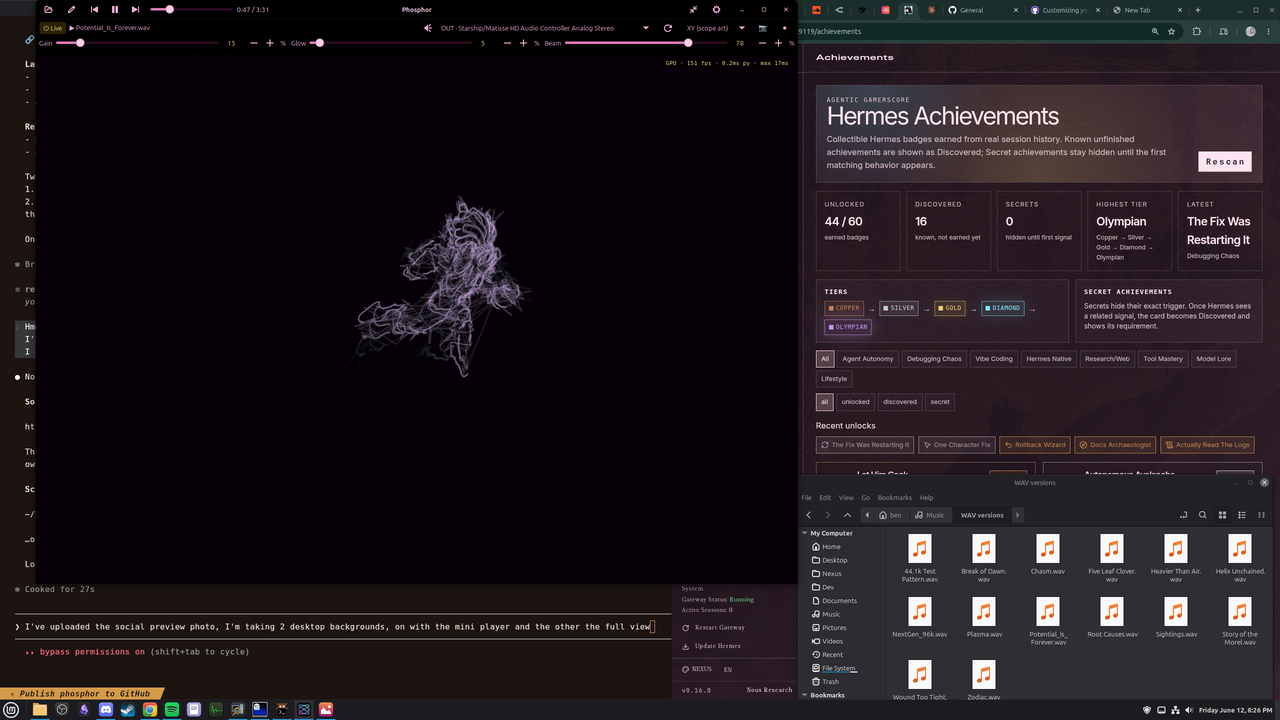
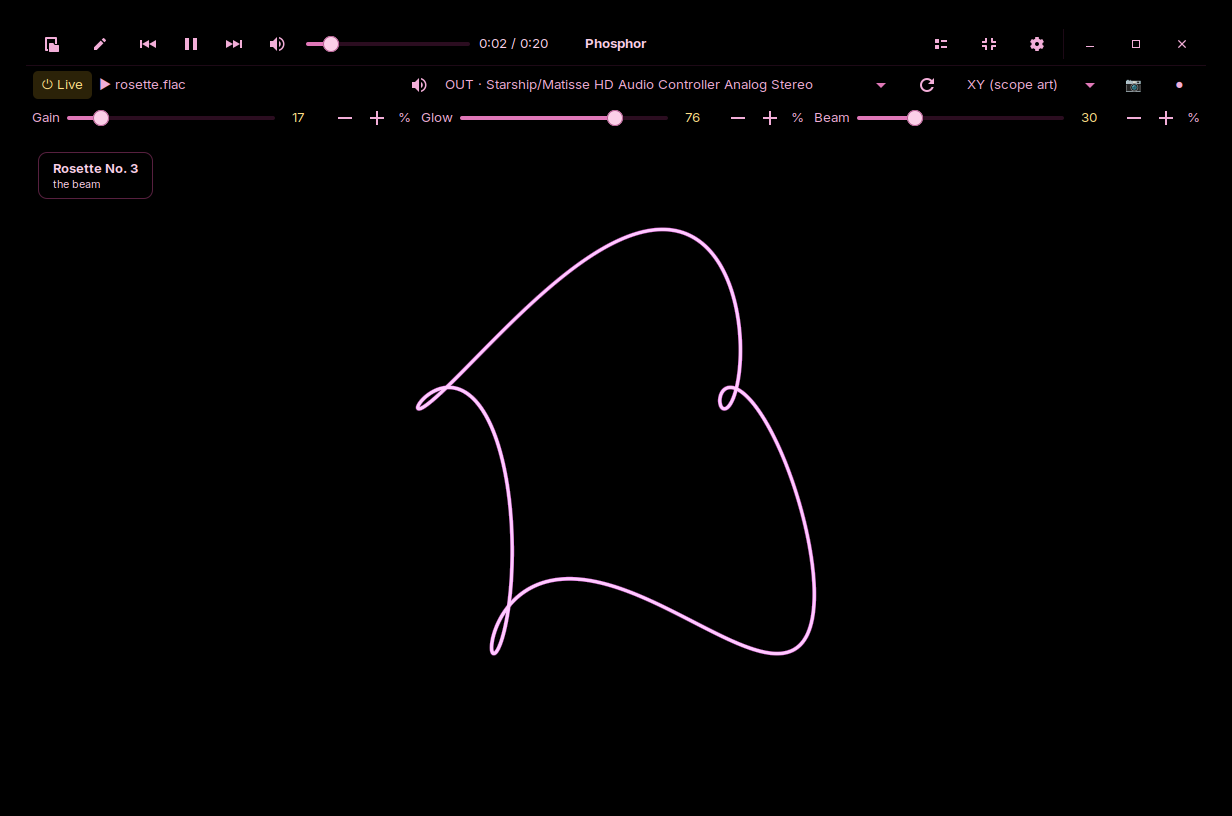
Ship polish: tooltip contrast, true Aero translucency, Stonework·bloom, mini track picker, real 3.1 README shots
- Tooltip labels get explicit colors in every theme (the global label
  color made hover text unreadable on Ice Blue and Aero).
- Aero glass is now genuinely translucent: RGBA visual on the window +
  transparent CSD decoration node + non-opaque background-color — GTK3
  was flattening alpha against an opaque frame. Proven by pixel: chrome
  tint follows whatever is behind the window (red vs green backdrop).
  Muffin composites it; no compiz, no measurable game cost.
- New style Stonework · bloom: the chiseled masonry with lit runes —
  ember glow seeps from whatever you touch. Both block themes get
  smaller buttons (padding/height trimmed, bevels and spacing kept).
- Tracks submenu in the right-click menu (windowed around the current
  track for big folders) — the mini view can change songs by mouse.
- README visuals reshot from the real 3.1 app: new hero, a six-style
  grid, a three-mode strip; stale v2 shots removed; seven-styles bullet.

diff --git a/phosphor_ui_style.py b/phosphor_ui_style.py
@@ -23,8 +23,9 @@ from gi.repository import Gtk, Gdk  # noqa: E402
 UI_STYLE_CHOICES = (("system", "System"), ("dark", "Dark"),
                     ("light", "Ice Blue ❄"), ("black", "AMOLED pink"),
                     ("bloom", "Bloom · neon"), ("stone", "Stonework 95"),
+                    ("stonebloom", "Stonework · bloom"),
                     ("aero", "Aero glass"))
-DARK_STYLES = ("dark", "black", "bloom", "stone")
+DARK_STYLES = ("dark", "black", "bloom", "stone", "stonebloom")
 
 # Always loaded: the overlay chips that float on the scope.
 BASE_UI_CSS = b"""
@@ -152,6 +153,7 @@ tooltip, tooltip.background {
     color: #fbcfe8;
     border: 1px solid #57203f;
 }
+tooltip label { color: #fbcfe8; }
 /* file chooser, kept on-theme: pink on black */
 dialog headerbar { background-color: #000000; }
 filechooser, filechooser box, filechooser paned { background-color: #000000; }
@@ -295,6 +297,7 @@ tooltip, tooltip.background {
     color: #fbcfe8;
     border: 1px solid #b65c92;
 }
+tooltip label { color: #fbcfe8; }
 dialog headerbar { background-color: #000000; }
 filechooser, filechooser box, filechooser paned { background-color: #000000; }
 placessidebar, placessidebar list { background-color: #0d040a; }
@@ -343,12 +346,12 @@ button, combobox button.combo, spinbutton button, button.color {
     border: 2px solid;
     border-color: #8a8375 #2e2a25 #2e2a25 #8a8375;
     border-radius: 0;
-    padding: 1px 9px;
-    min-height: 24px;
+    padding: 0 6px;
+    min-height: 20px;
     box-shadow: none;
     transition: none;
 }
-spinbutton button { padding: 1px 6px; }
+spinbutton button { padding: 0 4px; }
 button:hover { background-image: linear-gradient(#756e63, #605a51); }
 button:active, button:checked {
     background-image: linear-gradient(#3e3a34, #4a453e);
@@ -431,6 +434,7 @@ tooltip, tooltip.background {
     color: #f4ead0;
     border: 1px solid #8a8375;
 }
+tooltip label { color: #f4ead0; }
 dialog headerbar { background-image: linear-gradient(#5a544b, #4a453e); }
 filechooser, filechooser box, filechooser paned { background-color: #4a453e; }
 placessidebar, placessidebar list { background-color: #3e3a34; }
@@ -458,25 +462,192 @@ actionbar { background-color: #4a453e; }
 #playlist-panel row:hover { background-color: #57524a; }
 """
 
+
+# Stonework · bloom: the same chiseled masonry, but the runes are lit —
+# ember light seeps out of whatever you touch, gold means molten.
+STONEBLOOM_UI_CSS = b"""
+window, headerbar, dialog, popover, popover.background, menu, .background {
+    background-color: #38342e;
+    color: #ecdfc2;
+}
+label, popover label, menu label, cellview { color: #ecdfc2; }
+headerbar {
+    background-image: linear-gradient(#4a453e, #38342e);
+    min-height: 34px;
+    padding: 0 4px;
+    border-bottom: 2px solid #211d18;
+    box-shadow: 0 1px 10px rgba(255, 190, 80, 0.14);
+}
+headerbar .title, headerbar label { color: #f4ead0; font-weight: bold; }
+button, combobox button.combo, spinbutton button, button.color {
+    background-image: linear-gradient(#57524a, #45403a);
+    color: #ecdfc2;
+    border: 2px solid;
+    border-color: #7d766a #211d18 #211d18 #7d766a;
+    border-radius: 0;
+    padding: 0 6px;
+    min-height: 20px;
+    box-shadow: 0 0 5px rgba(255, 190, 80, 0.10);
+    transition: box-shadow 140ms ease;
+}
+spinbutton button { padding: 0 4px; }
+button:hover {
+    background-image: linear-gradient(#615a50, #4e4841);
+    color: #ffd76e;
+    box-shadow: 0 0 11px rgba(255, 190, 80, 0.5);
+}
+button:active, button:checked {
+    background-image: linear-gradient(#3a2d10, #4a3a14);
+    border-color: #211d18 #7d766a #7d766a #211d18;
+}
+button:checked {
+    color: #ffcf5e;
+    box-shadow: 0 0 12px rgba(255, 200, 90, 0.55);
+}
+button:checked label, button:checked image { color: #ffcf5e; }
+combobox arrow { color: #d8b96a; }
+entry, spinbutton, spinbutton entry {
+    background-image: none;
+    background-color: #262218;
+    color: #ffcf5e;
+    border: 2px solid;
+    border-color: #211d18 #7d766a #7d766a #211d18;
+    border-radius: 0;
+    min-height: 22px;
+    box-shadow: none;
+}
+entry:focus, spinbutton entry:focus {
+    background-color: #2e2a24;
+    box-shadow: 0 0 9px rgba(255, 190, 80, 0.4);
+}
+scale trough {
+    background-color: #262218;
+    border: 2px solid;
+    border-color: #211d18 #7d766a #7d766a #211d18;
+    border-radius: 0;
+    min-height: 8px;
+}
+scale highlight {
+    background-image: linear-gradient(#ffcf5e, #c98f2e);
+    border-radius: 0;
+    box-shadow: 0 0 7px rgba(255, 200, 90, 0.6);
+}
+scale slider {
+    background-image: linear-gradient(#615a50, #4e4841);
+    border: 2px solid;
+    border-color: #7d766a #211d18 #211d18 #7d766a;
+    border-radius: 0;
+    min-width: 12px;
+    min-height: 20px;
+}
+scale slider:hover { box-shadow: 0 0 9px rgba(255, 190, 80, 0.55); }
+switch {
+    background-image: none;
+    background-color: #262218;
+    border: 2px solid;
+    border-color: #211d18 #7d766a #7d766a #211d18;
+    border-radius: 0;
+}
+switch:checked {
+    background-color: #6e5312;
+    box-shadow: 0 0 9px rgba(255, 200, 90, 0.5);
+}
+switch slider {
+    background-image: linear-gradient(#615a50, #4e4841);
+    border: 2px solid;
+    border-color: #7d766a #211d18 #211d18 #7d766a;
+    border-radius: 0;
+    min-width: 16px;
+    min-height: 16px;
+    margin: 1px;
+}
+menu menuitem:hover, popover modelbutton:hover { background-color: #6e5312; }
+menu menuitem:hover label { color: #ffe9b0; }
+menu, popover {
+    border: 2px solid;
+    border-color: #7d766a #211d18 #211d18 #7d766a;
+    border-radius: 0;
+    box-shadow: 0 0 16px rgba(255, 190, 80, 0.22);
+}
+menu check, menu radio { color: #d8b96a; }
+menu check:checked, menu radio:checked { color: #ffcf5e; }
+separator { background-color: #211d18; min-width: 2px; min-height: 2px; }
+scrollbar, scrollbar trough { background-color: #2e2a24; }
+scrollbar slider {
+    background-image: linear-gradient(#615a50, #4e4841);
+    border: 2px solid;
+    border-color: #7d766a #211d18 #211d18 #7d766a;
+    border-radius: 0;
+    min-width: 12px;
+    min-height: 24px;
+}
+scrollbar slider:hover { box-shadow: 0 0 8px rgba(255, 190, 80, 0.5); }
+.settings-section {
+    color: #d8b96a;
+    font-size: 10px;
+    font-weight: bold;
+    letter-spacing: 3px;
+}
+tooltip, tooltip.background {
+    background-color: #262218;
+    color: #ffe9b0;
+    border: 1px solid #c98f2e;
+}
+tooltip label { color: #ffe9b0; }
+dialog headerbar { background-image: linear-gradient(#4a453e, #38342e); }
+filechooser, filechooser box, filechooser paned { background-color: #38342e; }
+placessidebar, placessidebar list { background-color: #2e2a24; }
+placessidebar row label { color: #ecdfc2; }
+placessidebar row:selected { background-color: #6e5312; }
+placessidebar row:selected label { color: #ffcf5e; }
+treeview.view { background-color: #262218; color: #ecdfc2; }
+treeview.view:selected { background-color: #6e5312; color: #ffcf5e; }
+treeview.view header button { background-color: #45403a; color: #ecdfc2; }
+actionbar { background-color: #38342e; }
+*:selected { background-color: #6e5312; color: #ffcf5e; }
+#fps-overlay { color: #ffcf5e; }
+#now-playing {
+    background-color: rgba(38, 34, 29, 0.88);
+    color: #f4ead0;
+    border: 2px solid;
+    border-color: #7d766a #211d18 #211d18 #7d766a;
+    border-radius: 0;
+    box-shadow: 0 0 12px rgba(255, 190, 80, 0.3);
+}
+#playlist-panel { background-color: #2e2a24; border-left: 2px solid #211d18; }
+#playlist-panel list, #playlist-panel row { background-color: transparent; }
+#playlist-panel row { border-radius: 0; }
+#playlist-panel row:selected { background-color: #6e5312; }
+#playlist-panel row:selected label { color: #ffcf5e; }
+#playlist-panel row:hover { background-color: #4e4841; }
+"""
+
 # Aero glass: translucent Frutiger-era gradients, white sheen on every
 # control, deep-sky selection — the 2000s visualizer energy, in chrome.
 AERO_UI_CSS = b"""
+/* a transparent decoration node + non-opaque background-color are what
+   let GTK3 hand the compositor real alpha - without them the frame
+   flattens everything against an opaque base */
+decoration { background-color: transparent; background-image: none; }
 window, dialog, .background {
-    background-image: linear-gradient(#dff2fb, #b8dff0 40%, #a5d4ea);
+    background-color: rgba(196, 228, 243, 0.60);
+    background-image: linear-gradient(rgba(223, 242, 251, 0.72),
+                                      rgba(184, 223, 240, 0.62) 40%,
+                                      rgba(165, 212, 234, 0.58));
     color: #123a52;
 }
 popover, popover.background, menu {
-    background-color: rgba(235, 248, 253, 0.97);
+    background-color: rgba(235, 248, 253, 0.94);
     color: #123a52;
 }
 label, popover label, menu label, cellview { color: #123a52; }
 headerbar {
-    background-image: linear-gradient(rgba(255,255,255,0.9),
-                                      rgba(190, 226, 243, 0.9));
+    background-image: linear-gradient(rgba(255,255,255,0.72),
+                                      rgba(190, 226, 243, 0.66));
     min-height: 34px;
     padding: 0 4px;
-    border-bottom: 1px solid #7db8d6;
-    box-shadow: inset 0 1px 0 rgba(255,255,255,0.9);
+    border-bottom: 1px solid rgba(125, 184, 214, 0.8);
+    box-shadow: inset 0 1px 0 rgba(255,255,255,0.85);
 }
 headerbar .title, headerbar label { color: #0d3752; }
 button, combobox button.combo, spinbutton button, button.color {
@@ -579,6 +750,7 @@ tooltip, tooltip.background {
     color: #e8f6fd;
     border: 1px solid #5aa5cc;
 }
+tooltip label { color: #e8f6fd; }
 dialog headerbar {
     background-image: linear-gradient(rgba(255,255,255,0.9),
                                       rgba(190, 226, 243, 0.9));
@@ -608,7 +780,10 @@ actionbar { background-color: #cfe9f5; }
     color: #0d3752;
     border: 1px solid #7db8d6;
 }
-#playlist-panel { background-color: #cfe9f5; border-left: 1px solid #9fcde2; }
+#playlist-panel {
+    background-color: rgba(207, 233, 245, 0.72);
+    border-left: 1px solid rgba(159, 205, 226, 0.8);
+}
 #playlist-panel list, #playlist-panel row { background-color: transparent; }
 #playlist-panel row { border-radius: 7px; }
 #playlist-panel row:selected {
@@ -719,6 +894,7 @@ tooltip, tooltip.background {
     background-color: #1c3a50;
     color: #eaf6fd;
 }
+tooltip label { color: #eaf6fd; }
 /* file chooser: force everything frost-light AND force symbolic icons;
    full-color icon themes made for dark desktops used to vanish here */
 dialog headerbar { background-color: #e1eef6; }
@@ -752,8 +928,8 @@ actionbar { background-color: #e1eef6; }
 """
 
 _STYLE_CSS = {"black": BLACK_UI_CSS, "bloom": BLOOM_UI_CSS,
-              "stone": STONE_UI_CSS, "aero": AERO_UI_CSS,
-              "light": ICE_UI_CSS}
+              "stone": STONE_UI_CSS, "stonebloom": STONEBLOOM_UI_CSS,
+              "aero": AERO_UI_CSS, "light": ICE_UI_CSS}
 
 
 def install_base_style():

diff --git a/phosphor.py b/phosphor.py
@@ -174,6 +174,12 @@ class OscilloscopeWindow(Gtk.ApplicationWindow):
         self.settings = Settings.load()
         self.set_default_size(self.settings.window_width, self.settings.window_height)
 
+        # an alpha channel when the compositor offers one: opaque themes
+        # look identical, and Aero glass gets genuinely see-through chrome
+        rgba_visual = self.get_screen().get_rgba_visual()
+        if rgba_visual is not None:
+            self.set_visual(rgba_visual)
+
         icon_path = os.path.join(PROJECT_DIRECTORY, "phosphor-scope.svg")
         if os.path.exists(icon_path):
             try:
@@ -1802,6 +1808,23 @@ class OscilloscopeWindow(Gtk.ApplicationWindow):
                      sensitive=len(self.player.playlist) > 1)
             add_item("Previous track  ⏮", self.player.play_previous_track,
                      sensitive=len(self.player.playlist) > 1)
+            if len(self.player.playlist) > 1:
+                # track picker in the menu, so the mini view can change
+                # songs by mouse alone
+                tracks_menu = add_submenu("Tracks")
+                playlist = self.player.playlist
+                current = self.player.playlist_index
+                start = 0
+                if len(playlist) > 30:      # window big folders around now
+                    start = max(0, min(current - 12, len(playlist) - 25))
+                    playlist = playlist[start:start + 25]
+                for offset, path in enumerate(playlist):
+                    add_check_item(
+                        os.path.basename(path),
+                        start + offset == current,
+                        lambda active, p=path: active and self.player
+                            .play_file(p, rebuild_playlist=False),
+                        radio=True, target_menu=tracks_menu)
         if not self.is_mini_mode:
             add_check_item("Compose · draw a shape  (D)", self.is_composing,
                            lambda active: self.compose_toggle.set_active(active))

diff --git a/README.md b/README.md
@@ -35,17 +35,26 @@ saved with the snapshot button:
 ## In use
 
 <p align="center">
-  <img src="docs/inuse-full.png" width="820" alt="Phosphor's full window running on a Linux Mint desktop"><br>
-  <sub>The full window: headerbar transport, source picker, slider rail.</sub>
-</p>
-
-<p align="center">
-  <img src="docs/inuse-mini.png" width="820" alt="Phosphor mini player on the desktop, with saved snapshots open in the file manager"><br>
-  <sub>The mini player — a borderless always-on-top square you tuck into a corner — beside saved snapshots.</sub>
+  <img src="docs/inuse-full.png" width="860" alt="Phosphor 3.1 playing a track: AMOLED pink chrome, Vaporwave beam, headerbar transport and seek"><br>
+  <sub>v3.1 on a Cinnamon desktop — AMOLED pink chrome, the built-in player mid-track, track info fading in.</sub>
 </p>
 
 <p align="center"><sub><em>“Made with Claude Fable 5 — finished the last prompt before the feds took it down. Amazing model…”</em> — Ben<br>
 Shipped to GitHub by Claude&nbsp;Opus&nbsp;4.8, the day Fable&nbsp;5 went dark (12 June 2026).</sub></p>
+
+## Seven looks
+
+<p align="center">
+  <img src="docs/styles.png" width="860" alt="Six of Phosphor's chrome styles: AMOLED pink, Bloom neon, Stonework 95, Stonework bloom, Aero glass, Ice Blue"><br>
+  <sub>Same scope, different metal: AMOLED pink · Bloom neon · Stonework 95 · Stonework bloom · Aero glass (genuinely translucent under a compositor) · Ice Blue ❄ — plus your system theme.</sub>
+</p>
+
+## Nine ways to see sound
+
+<p align="center">
+  <img src="docs/modes.png" width="860" alt="Three of the nine display modes: XY swirl, ring oscillogram, spectrum tunnel"><br>
+  <sub>Three of the nine: XY · swirl, Ring · oscillogram, Spectrum · tunnel. The others: XY scope art, goniometer, XY dots, waveform, spectrum, radial.</sub>
+</p>
 
 ## What it does
 
@@ -59,8 +68,9 @@ Shipped to GitHub by Claude&nbsp;Opus&nbsp;4.8, the day Fable&nbsp;5 went dark (
 - **Nine displays** — XY scope art, goniometer, a slowly revolving
   swirl, XY dots, triggered waveform, ring oscillogram, spectrum, radial
   spectrum, and a breathing spectrum tunnel.
-- **Six chrome styles** — AMOLED pink, Bloom neon, Stonework 95, Aero
-  glass, Ice Blue ❄, or your system theme.
+- **Seven chrome styles** — AMOLED pink, Bloom neon, Stonework 95,
+  Stonework · bloom, truly-translucent Aero glass, Ice Blue ❄, or your
+  system theme.
 - **A real beam** — analytic Gaussian beam integral on the GPU, linear-light
   compositing, two-layer phosphor decay, octave-stepped graticule.
 - **A Rust core** — the samples→segments math runs native, and in-process

diff --git a/docs/MANUAL.md b/docs/MANUAL.md
@@ -99,7 +99,8 @@ The gear popover is organized into sections:
 - **Appearance** — themes (P7 Green, Amber, Ice Blue, White, Vaporwave,
   Red Phosphor, Ultraviolet, Solar Gold, Cyan Tube, Custom with two color
   pickers), UI style (System / Dark / Ice Blue ❄ / AMOLED pink / Bloom neon /
-  Stonework 95 / Aero glass), pin button.
+  Stonework 95 / Stonework · bloom / Aero glass — Aero is genuinely
+  translucent when a compositor is running), pin button.
 - **Player** — the track-info overlay.
 - **Performance** — **Max FPS** (Monitor follows the display's refresh
   rate; presets to 480 or type anything up to 1000) and the FPS overlay,